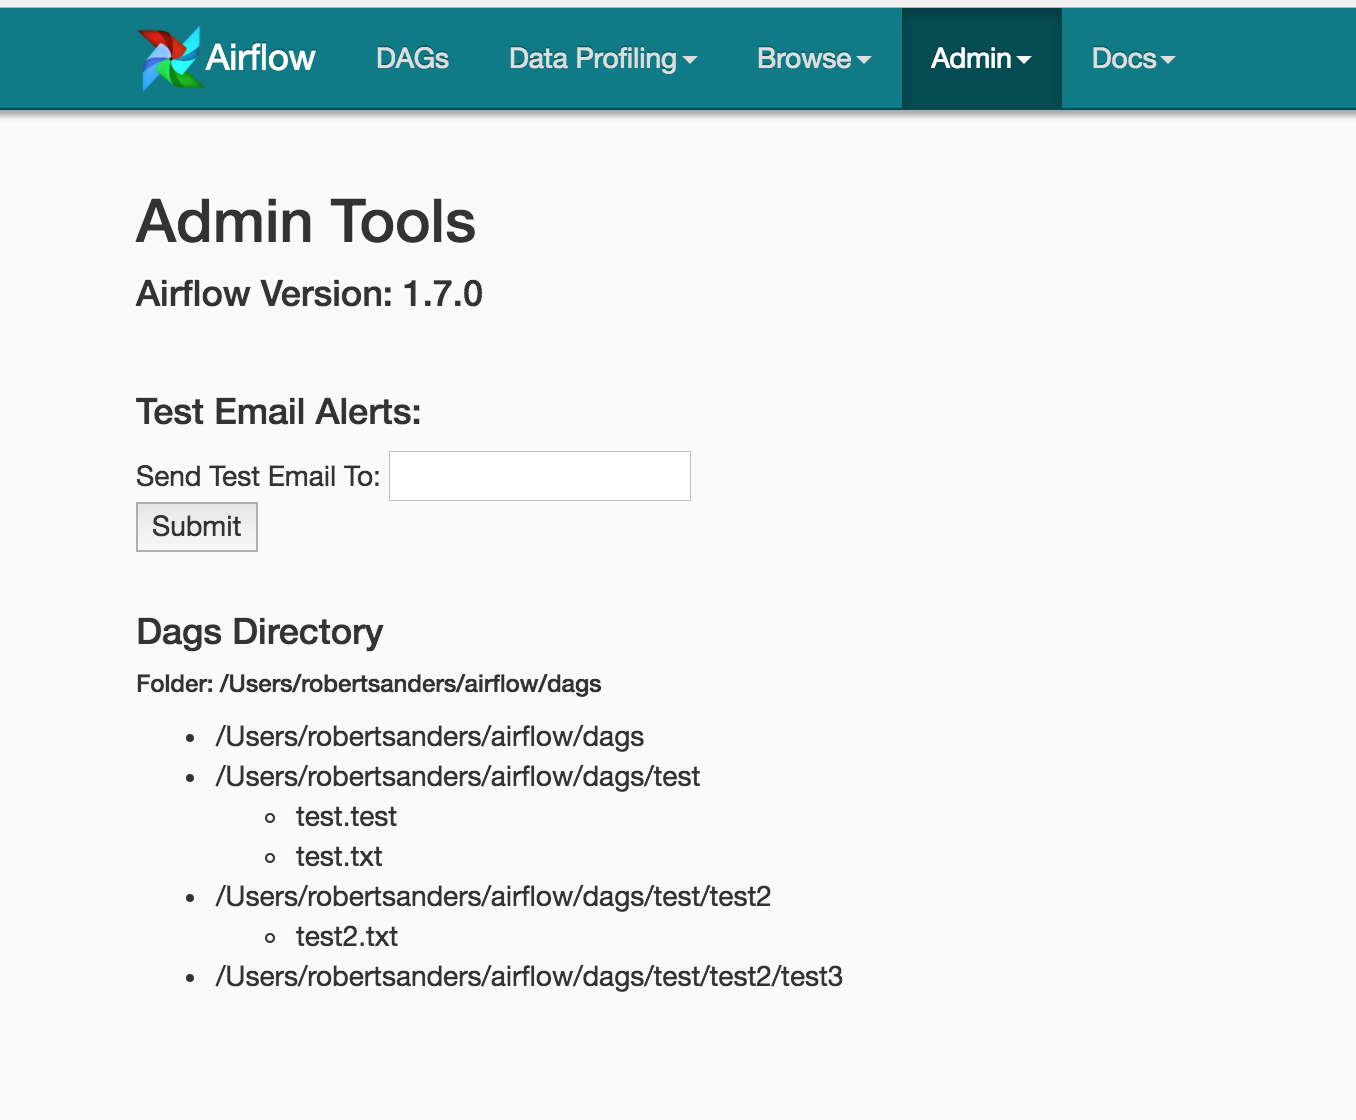
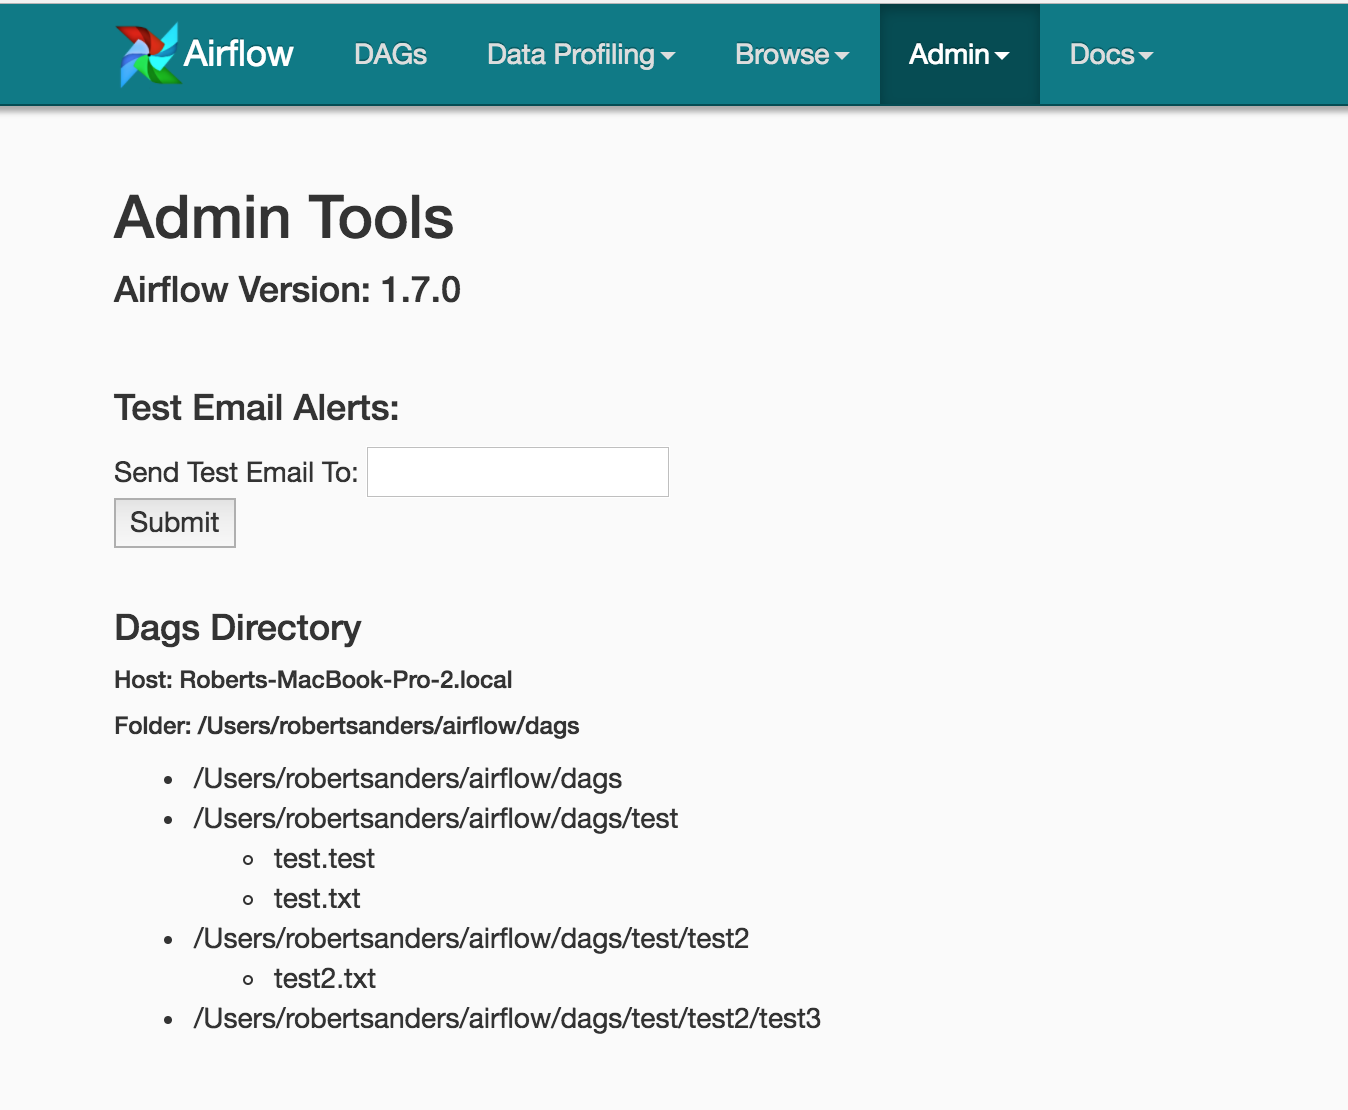
Adding the host name to the admin page

diff --git a/templates/admin_tools_plugin/index.html b/templates/admin_tools_plugin/index.html
@@ -30,6 +30,7 @@
 
     <div>
         <h4>Dags Directory</h4>
+        <h6>Host: {{host_name}}</h6>
         <h6>Folder: {{dags_folder}}</h6>
         <div>
             <ul>

diff --git a/admin_tools_plugin.py b/admin_tools_plugin.py
@@ -7,6 +7,7 @@ from flask_admin import BaseView, expose
 import logging
 import importlib
 import os
+import socket
 
 
 class AdminTools(BaseView):
@@ -14,6 +15,8 @@ class AdminTools(BaseView):
     @expose('/')
     def index(self):
         airflow_version = airflow.__version__
+
+        host_name = socket.gethostname()
 
         dags_folder = configuration.get('core', 'DAGS_FOLDER')
 
@@ -23,7 +26,7 @@ class AdminTools(BaseView):
             for file in files:
                 dags_folder_contents.append("\t" + file)
 
-        return self.render("admin_tools_plugin/index.html", airflow_version=airflow_version, dags_folder=dags_folder, dags_folder_contents=dags_folder_contents)
+        return self.render("admin_tools_plugin/index.html", airflow_version=airflow_version, host_name=host_name, dags_folder=dags_folder, dags_folder_contents=dags_folder_contents)
 
     @expose('/email')
     def email(self):

diff --git a/README.md b/README.md
@@ -2,7 +2,11 @@
 
 ## Description
 
-An Apache Airflow (Documentation: https://pythonhosted.org/airflow/, Source Code: https://github.com/apache/incubator-airflow) Plugin that provides a new page to the standard Airflow Web Server to help you perform various operations
+An Apache Airflow (Documentation: https://pythonhosted.org/airflow/, Source Code: https://github.com/apache/incubator-airflow) Plugin that provides a new page to the standard Airflow Web Server to help you perform various operations:
+
+* View what version of Airflow is installed
+* Send Test Alert emails
+* View the contents of the DAGs Directory
 
 ## Screenshot
 
